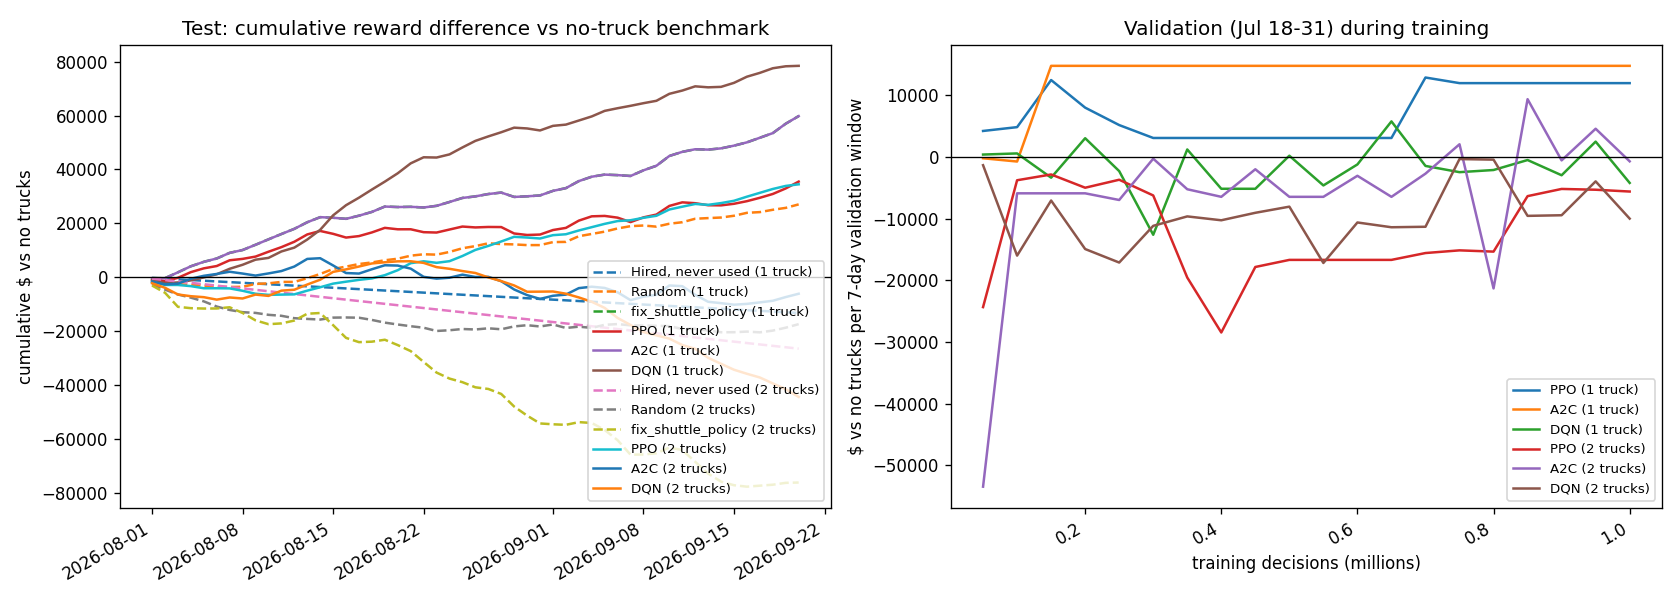
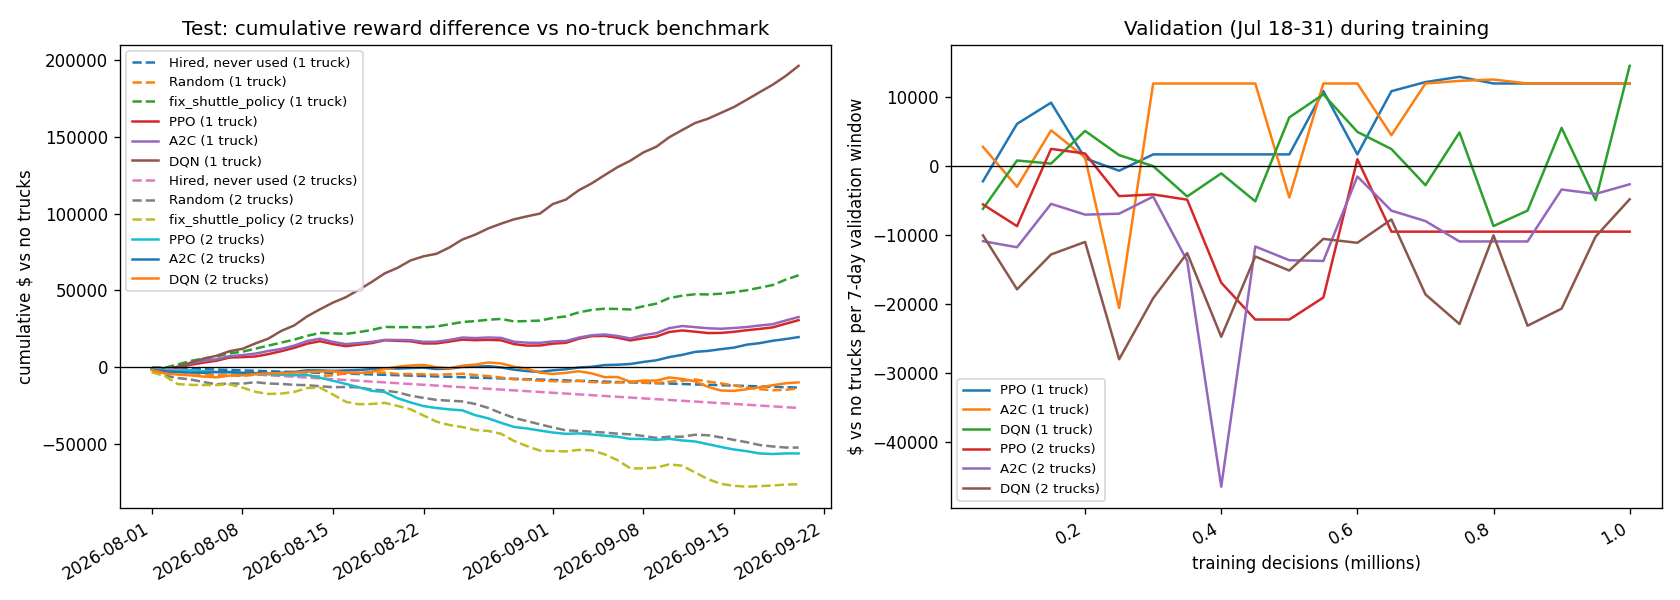
Round 2: 10/20/40-bike loads on 40-bike trucks; zone overlay on the map
- RL action loads are now 10, 20 or 40 bikes (was 5, 10, 20) and RL/zone
  policies run with 40-bike trucks via a new Policy.env_overrides hook
  (the env's own default truck_capacity stays 20).
- Retrained PPO/A2C/DQN x 1/2 trucks; new test results in results/.
  Round-1 results moved to results/round1/ (models archived locally in
  models/round1/, gitignored).
- Dashboard: "Show zones" toggle draws the 20 k-means zones (convex
  hulls with zone numbers).

diff --git a/app.py b/app.py
@@ -33,6 +33,16 @@ DEFAULT_DATE = "2026-06-15"
 DEFAULT_POLICY = "no_rebalancing"
 INIT_OCCUPANCY = DEFAULT_INIT_OCCUPANCY
 
+# RL zones (rl/zones.py) drawn as an optional overlay: outline + centre label.
+try:
+    from rl.wrapper import static_data
+    from rl.zones import zone_outlines
+    _ZONE_STORE = zone_outlines(static_data()["zones"], STATIONS_DF["lat"],
+                                STATIONS_DF["lon"], STATIONS_DF["capacity"])
+except Exception as e:   # noqa: BLE001 - overlay is optional
+    print(f"Zone overlay disabled: {e}")
+    _ZONE_STORE = []
+
 _STATION_STORE = {
     "lat": STATIONS_DF["lat"].tolist(),
     "lon": STATIONS_DF["lon"].tolist(),
@@ -152,7 +162,7 @@ def build_base_figure(layout: dict) -> dict:
 # station colour = fill level (bikes / docks), arcs = rides in progress (only
 # requests the simulation actually served), plus the metric cards.
 _ANIMATION_JS = """
-function(current_min, sim, station_data, layout) {
+function(current_min, show_zones, sim, station_data, layout, zones) {
     var nu = window.dash_clientside.no_update;
     if (!sim || !station_data || !layout ||
         current_min === null || current_min === undefined) {
@@ -311,8 +321,29 @@ function(current_min, sim, station_data, layout) {
         });
     }
 
+    // ── Zone overlay (outlines under everything, numbers on top) ──────────────
+    var zoneTraces=[], zoneLabels=[];
+    if (zones && zones.length && show_zones && show_zones.indexOf('on')>=0) {
+        var ZC=['#1f77b4','#ff7f0e','#2ca02c','#d62728','#9467bd','#8c564b','#e377c2',
+                '#7f7f7f','#bcbd22','#17becf','#393b79','#637939','#8c6d31','#843c39',
+                '#7b4173','#3182bd','#e6550d','#31a354','#756bb1','#636363'];
+        zones.forEach(function(z, i) {
+            var c=ZC[i%ZC.length];
+            var r=parseInt(c.slice(1,3),16), g=parseInt(c.slice(3,5),16), b=parseInt(c.slice(5,7),16);
+            zoneTraces.push({type:'scattermap', mode:'lines', fill:'toself',
+                fillcolor:'rgba('+r+','+g+','+b+',0.08)', lat:z.lat, lon:z.lon,
+                line:{color:c, width:2}, hoverinfo:'text',
+                text:'Zone '+z.zone+': '+z.stations+' stations, '+z.docks.toLocaleString()+' docks'});
+        });
+        zoneLabels.push({type:'scattermap', mode:'text', hoverinfo:'skip',
+            lat:zones.map(function(z){return z.clat;}), lon:zones.map(function(z){return z.clon;}),
+            text:zones.map(function(z){return 'Z'+z.zone;}),
+            // Fonts come from the style's glyphs server (demotiles has Noto Sans Bold).
+            textfont:{size:15, color:'#111111', family:'Noto Sans Bold'}});
+    }
+
     var figure = {
-        data: [
+        data: zoneTraces.concat([
             {type:'scattermap', mode:'lines', lat:mLat, lon:mLon,
              line:{color:'rgba(51,153,255,0.5)', width:1}, hoverinfo:'skip'},
             {type:'scattermap', mode:'lines', lat:cLat, lon:cLon,
@@ -321,7 +352,7 @@ function(current_min, sim, station_data, layout) {
              marker:{color:color, size:size, cmin:0, cmax:1, opacity:0.9,
                      colorscale:[[0,'#e8000b'],[0.15,'#ff9900'],[0.5,'#2ca02c'],[1,'#1f4fd1']]},
              text:text, hoverinfo:'text'}
-        ].concat(truckTraces),
+        ]).concat(zoneLabels).concat(truckTraces),
         layout: viewLayout
     };
 
@@ -370,6 +401,7 @@ def serve_layout():
     [
         dcc.Store(id="sim-store", data=None),
         dcc.Store(id="station-store", data=_STATION_STORE),
+        dcc.Store(id="zone-store", data=_ZONE_STORE),
         dcc.Store(id="map-layout", data=layout),
         dcc.Interval(id="interval", interval=500, disabled=True, n_intervals=0),
 
@@ -396,6 +428,13 @@ def serve_layout():
                     html.Div(id="total-trips",
                              style={"color":"#aaffaa","marginLeft":"24px","fontSize":"14px"}),
                     type="dot", color="#aaffaa",
+                ),
+                dcc.Checklist(
+                    id="zone-toggle",
+                    options=[{"label": " Show zones", "value": "on"}],
+                    value=["on"],
+                    style={"marginLeft":"16px","fontSize":"14px"},
+                    labelStyle={"color":"#eeeeee","cursor":"pointer"},
                 ),
                 html.Div(id="time-display", children="00:00",
                          style={"color":"#ffff88","marginLeft":"32px",
@@ -555,9 +594,11 @@ app.clientside_callback(
     Output("time-display", "children"),
     *[Output(cid, "children") for cid, _ in METRICS],
     Input("time-slider", "value"),
+    Input("zone-toggle", "value"),
     Input("sim-store", "data"),
     State("station-store", "data"),
     State("map-layout", "data"),
+    State("zone-store", "data"),
     prevent_initial_call=True,
 )
 

diff --git a/rl/zones.py b/rl/zones.py
@@ -24,3 +24,20 @@ def make_zones(lat: np.ndarray, lon: np.ndarray, n_zones: int = N_ZONES) -> Zone
     remap[order] = np.arange(n_zones)
     zone_of = remap[labels]
     return Zones(n_zones, zone_of, [np.flatnonzero(zone_of == z) for z in range(n_zones)])
+
+
+def zone_outlines(zones: Zones, lat: np.ndarray, lon: np.ndarray,
+                  capacity: np.ndarray) -> list[dict]:
+    """Convex hull of each zone's stations (closed ring), plus its centre and size."""
+    from scipy.spatial import ConvexHull
+    lat, lon = np.asarray(lat), np.asarray(lon)
+    out = []
+    for z, idx in enumerate(zones.stations_in_zone):
+        pts = np.c_[lon[idx], lat[idx]]
+        ring = pts[ConvexHull(pts).vertices] if len(idx) >= 3 else pts
+        ring = np.vstack([ring, ring[:1]])
+        out.append({"zone": z, "lat": ring[:, 1].round(5).tolist(),
+                    "lon": ring[:, 0].round(5).tolist(),
+                    "clat": float(lat[idx].mean()), "clon": float(lon[idx].mean()),
+                    "stations": int(len(idx)), "docks": int(np.asarray(capacity)[idx].sum())})
+    return out

diff --git a/rl/wrapper.py b/rl/wrapper.py
@@ -18,7 +18,7 @@ from bikeshare_env.env import DEFAULT_INIT_OCCUPANCY, MINUTES_PER_DAY, BikeShare
 from bikeshare_env.road_network import load_road_matrices
 from bikeshare_env.trips import load_period_trips
 from data_loader import load_stations
-from rl.features import FeatureBuilder, n_actions, obs_size
+from rl.features import TRUCK_CAPACITY, FeatureBuilder, n_actions, obs_size
 from rl.zones import N_ZONES, make_zones
 
 # Data split. Validation (checkpoint selection) is the end of the training months;
@@ -50,6 +50,7 @@ def make_base_env(window, number_trucks, init_occupancy, trips=None) -> BikeShar
         trips = load_period_trips(window[0], window[1], s["ids"])
     return BikeShareEnv(init_occupancy=init_occupancy, simulation_period=window,
                         number_trucks=number_trucks, skip_when_all_busy=False,
+                        truck_capacity=TRUCK_CAPACITY,
                         stations=s["stations"], trips=trips,
                         road_dist_km=s["dist"], road_time_min=s["time"])
 

diff --git a/rl/policy.py b/rl/policy.py
@@ -13,7 +13,7 @@ import os
 import numpy as np
 
 from bikeshare_env.policies import POLICIES, Policy
-from rl.features import FeatureBuilder, encode_action
+from rl.features import TRUCK_CAPACITY, FeatureBuilder, encode_action
 from rl.train import model_dir
 from rl.wrapper import static_data
 
@@ -22,6 +22,7 @@ ALGOS = {"ppo": "PPO", "a2c": "A2C", "dqn": "DQN"}
 
 class ZoneActionPolicy(Policy):
     """Asks `choose(obs_vector)` for every idle truck each minute, like RebalanceEnv."""
+    env_overrides = {"truck_capacity": TRUCK_CAPACITY}   # same trucks as in training
 
     def reset(self, env) -> None:
         super().reset(env)

diff --git a/bikeshare_env/rollout.py b/bikeshare_env/rollout.py
@@ -35,6 +35,8 @@ def simulate_day(date: str, policy_key: str, init_occupancy: float = DEFAULT_INI
                  **env_kwargs) -> DayRollout:
     policy = POLICIES[policy_key]()
     env_kwargs.setdefault("number_trucks", policy.number_trucks)
+    for key, value in policy.env_overrides.items():
+        env_kwargs.setdefault(key, value)
     # One step per minute so every minute is recorded, even while trucks are busy.
     env = gym.make("BikeShareToronto-v0", init_occupancy=init_occupancy,
                    simulation_period=(date, date), skip_when_all_busy=False,

diff --git a/bikeshare_env/policies.py b/bikeshare_env/policies.py
@@ -9,6 +9,7 @@ import numpy as np
 class Policy:
     label = "Base policy"
     number_trucks = 2   # fleet the policy is run with (hired every day, used or not)
+    env_overrides: dict = {}   # extra env settings the policy needs (e.g. truck_capacity)
 
     def reset(self, env) -> None:
         """Called once after env.reset(); `env` is the unwrapped BikeShareEnv."""

diff --git a/tests/test_rl.py b/tests/test_rl.py
@@ -17,6 +17,7 @@ def env(request):
 
 
 def test_spaces_sizes(env):
+    assert QTY_LEVELS == (10, 20, 40) and env.env.truck_capacity == 40
     assert env.action_space.n == n_actions(20) == 1 + 20 * 19 * len(QTY_LEVELS) == 1141
     assert env.observation_space.shape == (obs_size(20, env.K),) == ((110,) if env.K == 1 else (132,))
 

diff --git a/rl/features.py b/rl/features.py
@@ -17,7 +17,8 @@ import numpy as np
 from bikeshare_env.env import MINUTES_PER_DAY, BikeShareEnv
 from rl.zones import Zones
 
-QTY_LEVELS = (5, 10, 20)
+QTY_LEVELS = (10, 20, 40)
+TRUCK_CAPACITY = 40          # bikes per truck for the RL / zone policies
 HISTORY_MIN = 60
 NET_CHANGE_SCALE = 10.0
 

diff --git a/results/rl_test_results.md b/results/rl_test_results.md
@@ -6,14 +6,14 @@ One continuous 51-day run, init_occupancy=0.35, bikes carry over between days. T
 |---|---|---|---|---|---|---|---|---|---|---|---|---|---|
 | No trucks (benchmark) | 0 | $6,057,953 | $0 | $0 | 85.15% | 302,201 | 105,163 | $0 | $0 | $0 | $0 | 0 | 0 |
 | Hired, never used | 1 | $6,044,693 | $-13,260 | $-260 | 85.15% | 302,201 | 105,163 | $13,260 | $8,160 | $0 | $5,100 | 0 | 0 |
-| Random | 1 | $6,084,999 | $27,047 | $530 | 86.12% | 282,581 | 98,697 | $57,956 | $40,799 | $12,058 | $5,100 | 14,225 | 40,192 |
+| Random | 1 | $6,044,204 | $-13,749 | $-270 | 85.43% | 296,639 | 84,409 | $55,661 | $40,800 | $9,761 | $5,100 | 18,381 | 32,536 |
 | fix_shuttle_policy | 1 | $6,117,777 | $59,824 | $1,173 | 86.78% | 269,166 | 89,195 | $50,288 | $40,800 | $4,388 | $5,100 | 24,447 | 14,626 |
-| PPO | 1 | $6,093,459 | $35,506 | $696 | 86.48% | 275,221 | 90,071 | $48,691 | $40,800 | $2,791 | $5,100 | 28,735 | 9,302 |
-| A2C | 1 | $6,117,777 | $59,824 | $1,173 | 86.78% | 269,166 | 89,195 | $50,288 | $40,800 | $4,388 | $5,100 | 24,447 | 14,626 |
-| DQN | 1 | $6,136,436 | $78,484 | $1,539 | 87.13% | 261,890 | 129,077 | $57,150 | $37,797 | $14,253 | $5,100 | 8,919 | 47,511 |
+| PPO | 1 | $6,088,571 | $30,618 | $600 | 86.42% | 276,419 | 90,366 | $48,684 | $40,800 | $2,784 | $5,100 | 28,742 | 9,279 |
+| A2C | 1 | $6,090,647 | $32,694 | $641 | 86.44% | 275,968 | 89,742 | $48,699 | $40,800 | $2,799 | $5,100 | 28,731 | 9,330 |
+| DQN | 1 | $6,254,144 | $196,191 | $3,847 | 88.82% | 227,592 | 118,560 | $51,004 | $40,799 | $5,104 | $5,100 | 24,048 | 17,014 |
 | Hired, never used | 2 | $6,031,433 | $-26,520 | $-520 | 85.15% | 302,201 | 105,163 | $26,520 | $16,320 | $0 | $10,200 | 0 | 0 |
-| Random | 2 | $6,040,534 | $-17,418 | $-342 | 86.22% | 280,424 | 93,018 | $116,485 | $81,593 | $24,692 | $10,200 | 27,818 | 82,306 |
+| Random | 2 | $6,005,624 | $-52,328 | $-1,026 | 85.67% | 291,710 | 84,448 | $112,390 | $81,587 | $20,603 | $10,200 | 35,242 | 68,676 |
 | fix_shuttle_policy | 2 | $5,981,727 | $-76,226 | $-1,495 | 85.84% | 288,186 | 90,019 | $100,856 | $81,574 | $9,082 | $10,200 | 47,587 | 30,274 |
-| PPO | 2 | $6,092,451 | $34,498 | $676 | 86.79% | 268,779 | 139,423 | $56,282 | $36,225 | $9,857 | $10,200 | 1,549 | 32,857 |
-| A2C | 2 | $6,051,821 | $-6,132 | $-120 | 86.68% | 271,020 | 96,475 | $91,685 | $71,418 | $10,067 | $10,200 | 40,385 | 33,557 |
-| DQN | 2 | $6,013,506 | $-44,447 | $-872 | 85.84% | 288,167 | 108,032 | $90,858 | $61,049 | $19,610 | $10,200 | 15,320 | 65,366 |
+| PPO | 2 | $6,001,819 | $-56,134 | $-1,101 | 85.72% | 290,655 | 94,433 | $84,287 | $65,233 | $8,854 | $10,200 | 18,456 | 29,515 |
+| A2C | 2 | $6,077,570 | $19,618 | $385 | 86.57% | 273,297 | 115,482 | $65,025 | $41,651 | $13,174 | $10,200 | 5,217 | 43,912 |
+| DQN | 2 | $6,048,082 | $-9,870 | $-194 | 86.77% | 269,314 | 137,951 | $79,145 | $54,917 | $14,028 | $10,200 | 23,840 | 46,760 |

diff --git a/results/round1/rl_test_results.md b/results/round1/rl_test_results.md
@@ -1,0 +1,19 @@
+# RL rebalancing: test results, 2026-08-01 to 2026-09-20
+
+One continuous 51-day run, init_occupancy=0.35, bikes carry over between days. Trained on 2026-05-01 to 2026-07-17, checkpoint chosen on 2026-07-18 to 07-31. Reward = env's true $ reward. Each truck costs $260/day (fixed + shift) whether used or not.
+
+| policy | trucks | total_reward | delta_vs_no_trucks | delta_per_day | fulfilled_pct | lost_requests | blocked_returns | truck_cost | labor_cost | fuel_cost | fixed_cost | bikes_moved | truck_km |
+|---|---|---|---|---|---|---|---|---|---|---|---|---|---|
+| No trucks (benchmark) | 0 | $6,057,953 | $0 | $0 | 85.15% | 302,201 | 105,163 | $0 | $0 | $0 | $0 | 0 | 0 |
+| Hired, never used | 1 | $6,044,693 | $-13,260 | $-260 | 85.15% | 302,201 | 105,163 | $13,260 | $8,160 | $0 | $5,100 | 0 | 0 |
+| Random | 1 | $6,084,999 | $27,047 | $530 | 86.12% | 282,581 | 98,697 | $57,956 | $40,799 | $12,058 | $5,100 | 14,225 | 40,192 |
+| fix_shuttle_policy | 1 | $6,117,777 | $59,824 | $1,173 | 86.78% | 269,166 | 89,195 | $50,288 | $40,800 | $4,388 | $5,100 | 24,447 | 14,626 |
+| PPO | 1 | $6,093,459 | $35,506 | $696 | 86.48% | 275,221 | 90,071 | $48,691 | $40,800 | $2,791 | $5,100 | 28,735 | 9,302 |
+| A2C | 1 | $6,117,777 | $59,824 | $1,173 | 86.78% | 269,166 | 89,195 | $50,288 | $40,800 | $4,388 | $5,100 | 24,447 | 14,626 |
+| DQN | 1 | $6,136,436 | $78,484 | $1,539 | 87.13% | 261,890 | 129,077 | $57,150 | $37,797 | $14,253 | $5,100 | 8,919 | 47,511 |
+| Hired, never used | 2 | $6,031,433 | $-26,520 | $-520 | 85.15% | 302,201 | 105,163 | $26,520 | $16,320 | $0 | $10,200 | 0 | 0 |
+| Random | 2 | $6,040,534 | $-17,418 | $-342 | 86.22% | 280,424 | 93,018 | $116,485 | $81,593 | $24,692 | $10,200 | 27,818 | 82,306 |
+| fix_shuttle_policy | 2 | $5,981,727 | $-76,226 | $-1,495 | 85.84% | 288,186 | 90,019 | $100,856 | $81,574 | $9,082 | $10,200 | 47,587 | 30,274 |
+| PPO | 2 | $6,092,451 | $34,498 | $676 | 86.79% | 268,779 | 139,423 | $56,282 | $36,225 | $9,857 | $10,200 | 1,549 | 32,857 |
+| A2C | 2 | $6,051,821 | $-6,132 | $-120 | 86.68% | 271,020 | 96,475 | $91,685 | $71,418 | $10,067 | $10,200 | 40,385 | 33,557 |
+| DQN | 2 | $6,013,506 | $-44,447 | $-872 | 85.84% | 288,167 | 108,032 | $90,858 | $61,049 | $19,610 | $10,200 | 15,320 | 65,366 |
